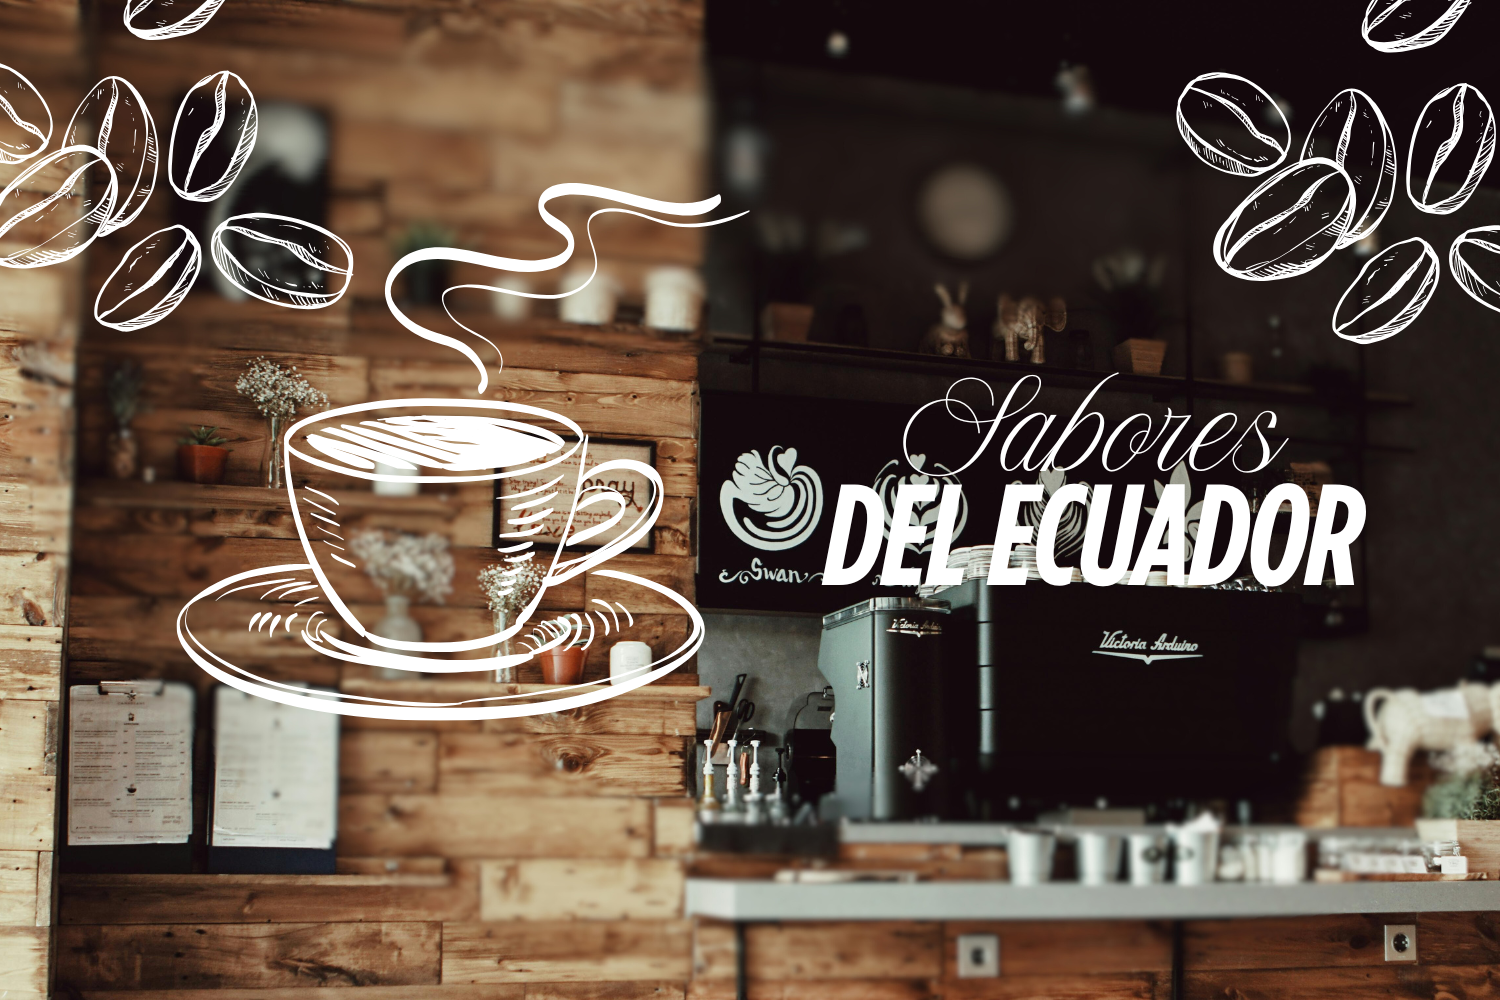
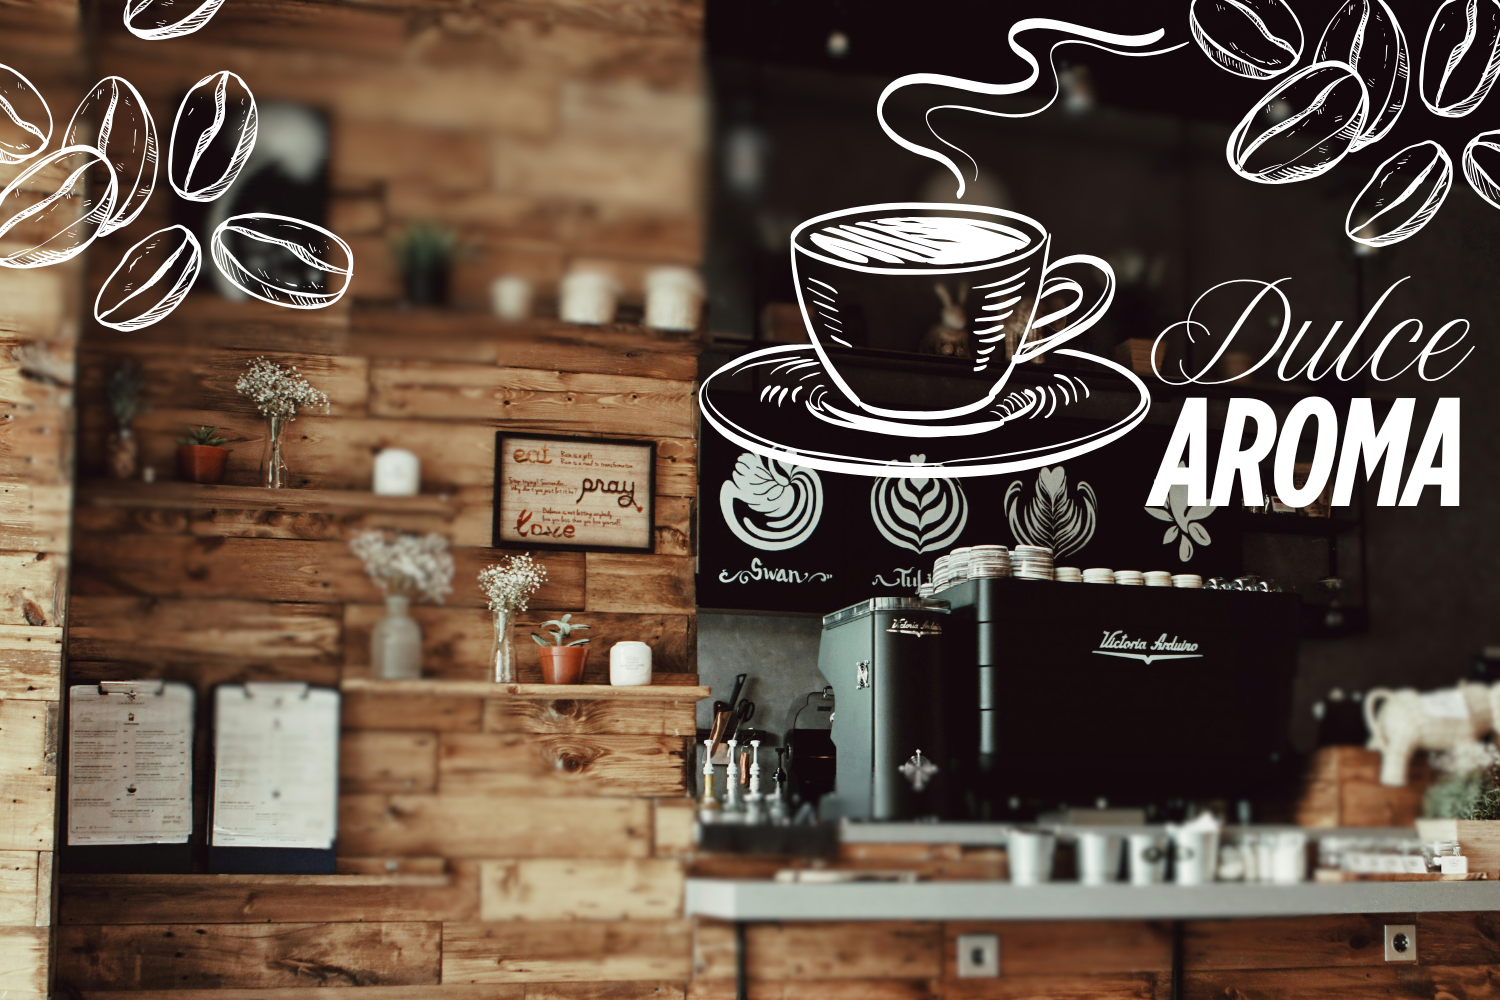
Se continuo con la aplicacion del rebranding en la imagen y en el copyrigth

diff --git a/startbootstrap-business-casual-gh-pages/index.html b/startbootstrap-business-casual-gh-pages/index.html
@@ -82,7 +82,7 @@
                 <div class="row">
                     <div class="col-md-4 mb-4 mb-md-0">
                         <h4 class="text-uppercase mb-4">Contacto</h4>
-                        <p class="mb-0">info@saboresdelecuador.com<br>+593 99 887 5544</p>
+                        <p class="mb-0">info@dulcearoma.com<br>+593 99 887 5544</p>
                     </div>
                     <div class="col-md-4 mb-4 mb-md-0">
                         <h4 class="text-uppercase mb-4">Horario</h4>
